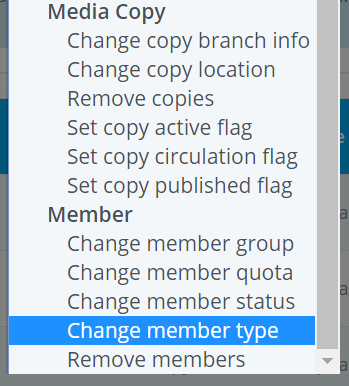
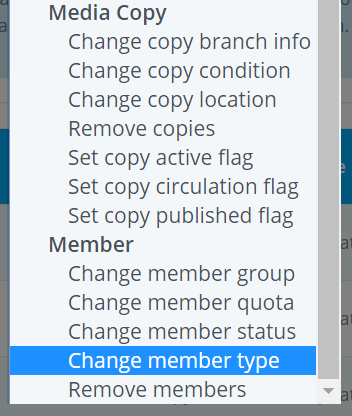
Refactor the bulk actions md file

Changed region(s): [[0.0, 0.0, 1.0, 0.9948]]

diff --git a/docs/bulk-actions.md b/docs/bulk-actions.md
@@ -199,7 +199,7 @@ To do so, please follow the below steps:
 
 * Click on `New Bulk Action` button and you can see the **Media Copy** options like below.
 
-    ![Bulk Actions media copy options](img/bulk-actions-media-copy-options.png)
+    ![Bulk Actions media copy type](img/bulk-actions-media-copy-type.png)
 
 ### Change Media Copy's Branch Info
 
@@ -210,7 +210,7 @@ To create a bulk action for changing media copy's branch information, please fol
     ![Bulk Actions change copy branch info](img/bulk-actions-change-copy-branch-info1.png)
     ![Bulk Actions change copy branch info](img/bulk-actions-change-copy-branch-info2.png)
 
-* In this page you can see that there are two types of conditions. The first one is the `Media Conditions` which is as same as the **Update Medias** mentioned above. But here you also need to fulfill the second conditions which is the `Media Copy Conditions`
+* In this page you can see that there are two types of conditions. The first one is the `Media Conditions` which is as same as the **Update Medias** section mentioned above. But here you also need to fulfill the second conditions which is the `Media Copy Conditions`
 
 * In `Media Copy Conditions` you need to specify at least one condition based on which the records will be updated. You can specify more than one criteria to further narrow down the selection. 
 
@@ -239,7 +239,7 @@ To create a bulk action for changing media copy's branch information, please fol
     ![Bulk Actions set value copy branch info](img/bulk-actions-set-value-copy-branch-info.png)
 
 * Here select the `Library Branch` to which you wanted to updated with. Otherwise an error message will be shown.
-* Click on `NEXT` button and you can review the changes like below.
+* Click on `NEXT` button and you can review your changes like below.
 
     ![Bulk Actions select review copy branch info](img/bulk-actions-review-copy-branch-info.png)
 
@@ -254,18 +254,18 @@ To create a bulk action for changing media copy's branch information, please fol
 
 To create a bulk action for changing media copy's condition, please follow the below steps:
 
-* Click on `New Bulk Action` button and select `Change media copy's condition` option from the dropdown menu. 
+* Click on `New Bulk Action` button and select `Change copy condition` option from the dropdown menu. 
 
-    ![Bulk Actions change media copys condition](img/bulk-actions-media-copys-condition.png)
+    ![Bulk Actions change copy condition](img/bulk-actions-change-copy-condition.png)
 
 * A **Select Criteria** form will appear same as **Change Media Copy's Branch Info** section mention above and after selecting all the criteria click on the next button.
 * Now enter your desired condition in the **Set Value** form and click on `NEXT` button when you are done.
 
-    ![Bulk Actions set media copys condition](img/bulk-actions-set-media-copys-condition.png)    
+    ![Bulk Actions set change copy condition](img/bulk-actions-set-change-copy-condition.png)    
 
-* Now you can review your changes and click on the confirm button.
+* Now review your changes and click on the confirm button.
 
-    ![Bulk Actions confirm media copys condition](img/bulk-actions-confirm-media-copys-condition.png)
+    ![Bulk Actions review change copy condition](img/bulk-actions-review-change-copy-condition.png)
 
 * Once you confirm it your bulk actions will be saved.
 * Finally click on the `Process this action?` button to process your actions.
@@ -361,7 +361,7 @@ To create a bulk action with the media copy's published flag, please follow the 
 
 ## Update Members
 
-You can use bulk action method to update the members information in your catalog such as booking quota, group, status, type etc.
+You can use bulk action method to update the members information in your library such as booking quota, group, status, type etc.
 
 To do so, please follow the below steps:
 
@@ -411,7 +411,7 @@ To create a bulk action for changing member group, please follow the bellow step
 
 * At last click on the `Process this action?` button and your actions will be processed.
 
-### Change Member's Quota
+### Change Member's Booking Quota
 
 To create a bulk action for changing member booking quota, please follow the below steps:
 
@@ -436,7 +436,7 @@ To create a bulk action for changing member status, please follow the below step
     ![Bulk Actions change member status](img/bulk-actions-change-member-status.png) 
 
 * A **Select Criteria** form will appear same as **Change Member's Group** section mention above and after selecting all the criteria click on the `NEXT` button.
-* Now you must have to select the status in the **Set Value** form otherwise an error message will be shown.
+* Now you must have to select a status in the **Set Value** form otherwise an error message will be shown.
 
     ![Bulk Actions set value for member status](img/bulk-actions-set-value-for-member-status.png) 
 
@@ -459,7 +459,7 @@ To create a bulk action for changing member's type, please follow the below step
 
 * Click on the next button when you are done.
 * Now review your changes and click on the confirm button. Once you confirm it your bulk actions will be saved.
-* Please remember to click on the `Process this action?` button otherwise your created actions will not be processed.
+* Please remember to click on the `Process this action?` button for processing your actions.
 
 ## Delete Members
 
@@ -469,10 +469,9 @@ To do so, please follow the below steps:
 
 * Click on `New Bulk Action` button and select the `Remove members` option.
 
-    ![Bulk Actions remove members option](img/bulk-actions-remove-members-option.png) 
+    ![Bulk Actions remove members](img/bulk-actions-remove-members.png) 
 
-* Select one or more criteria from the **Select Criteria** form like before and click on the `NEXT` button.
-* A set options form will be shown like below.
+* Select one or more criteria from the **Select Criteria** form like before and click on the `NEXT` button. A form will be shown like below.
 
     ![Bulk Actions set options for remove members](img/bulk-actions-set-remove-members.png)   
 
